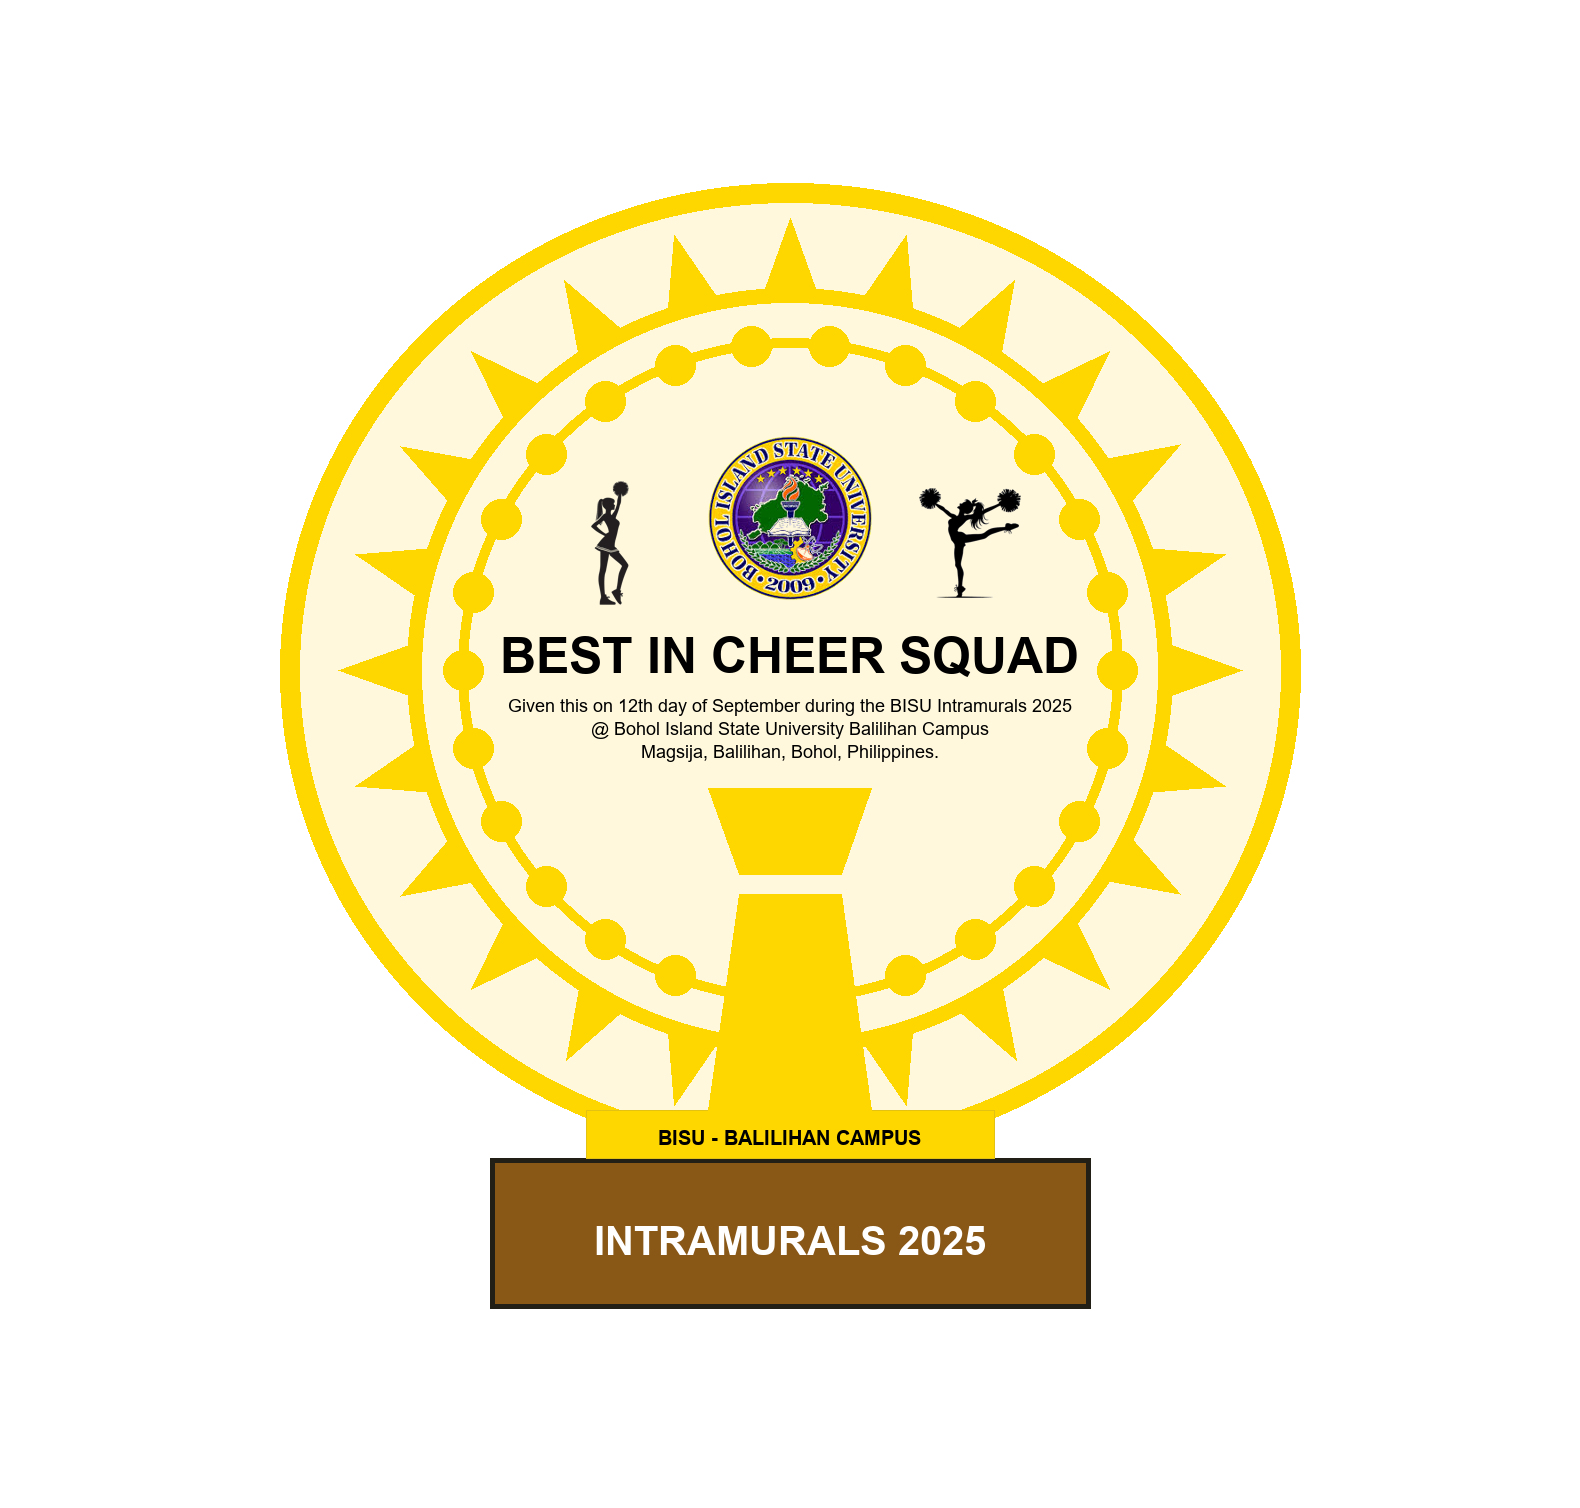
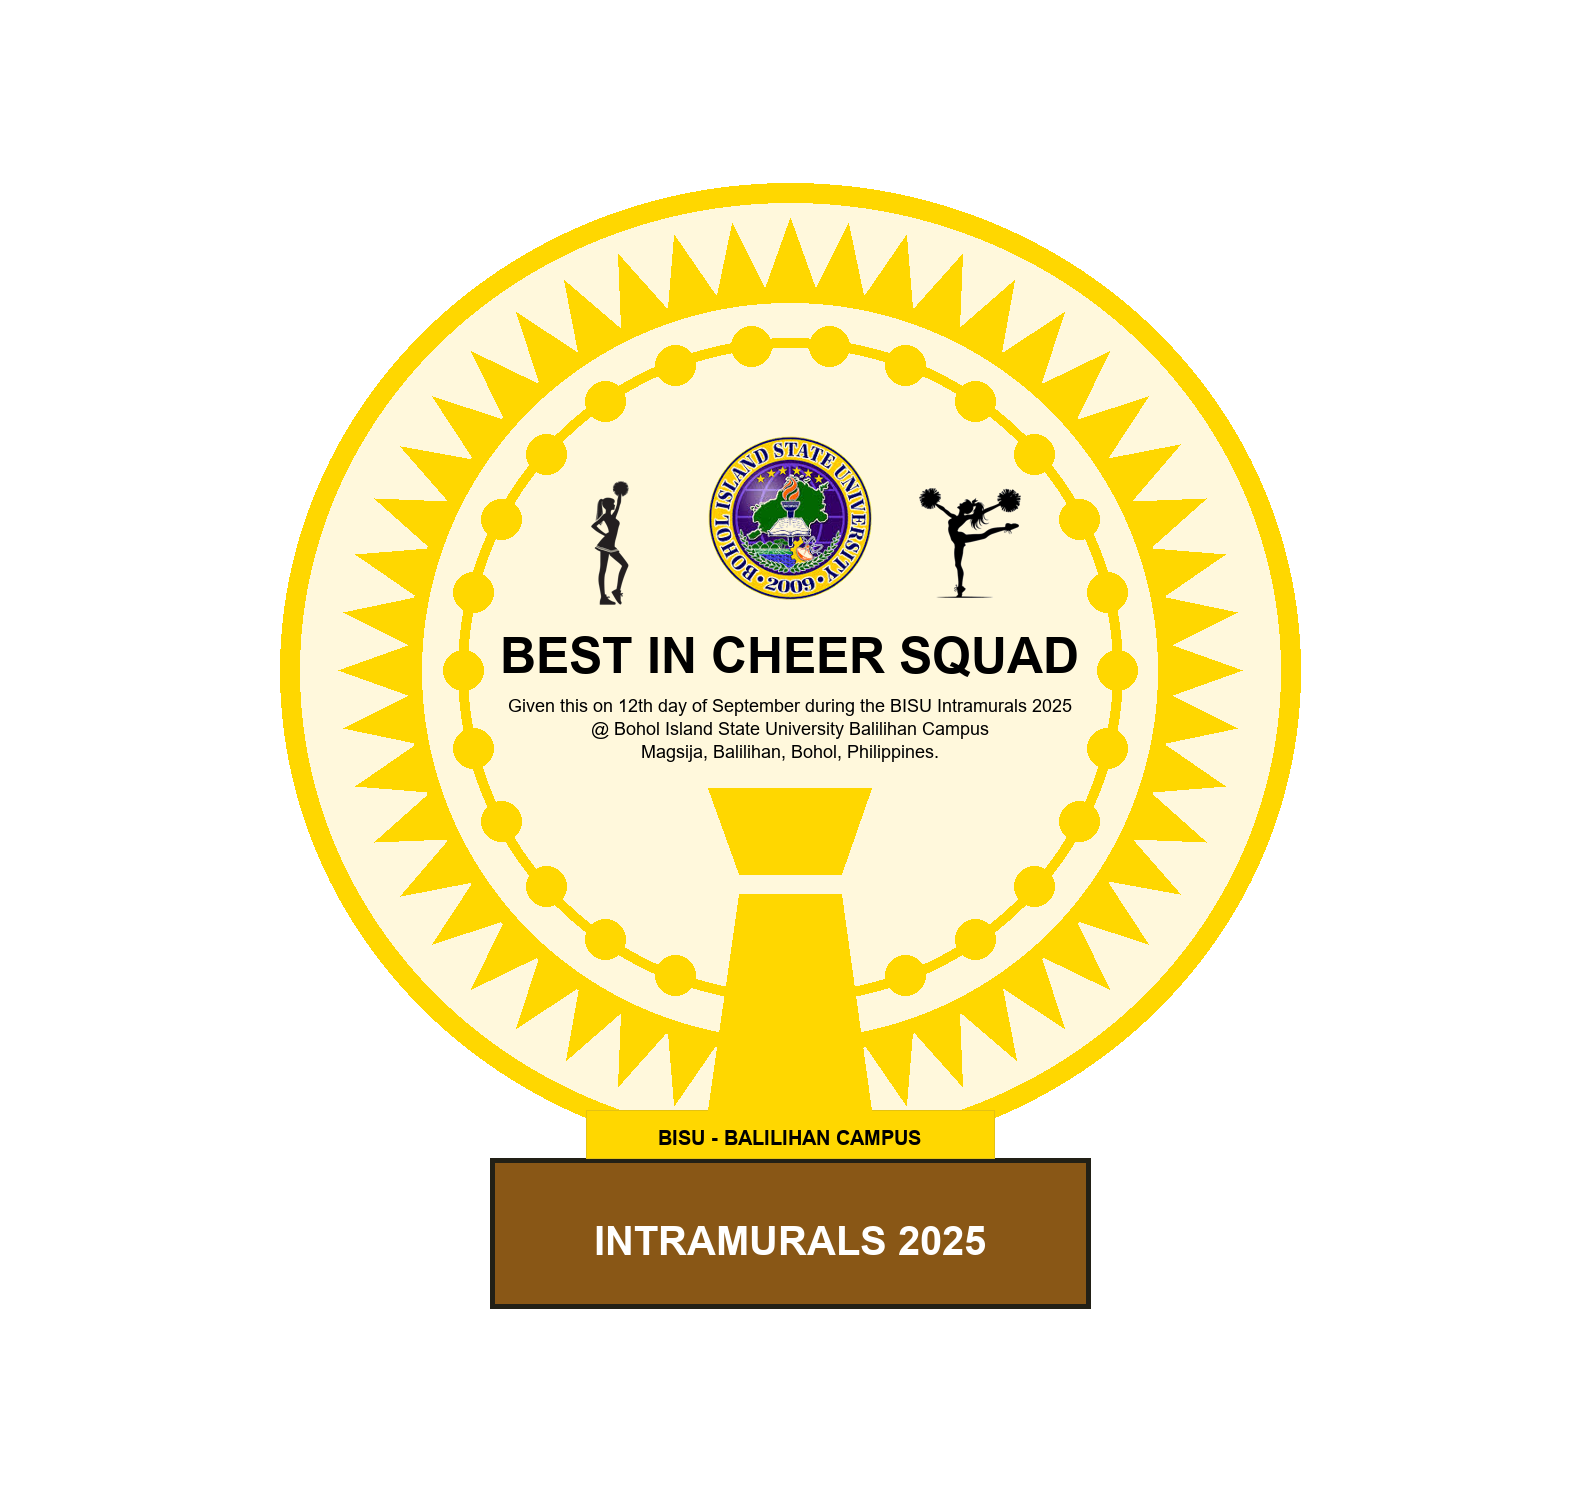
commit 9f8c3e2d5b6a7e8f9a0b1c2d3e4f5g6h7i8j9k0l Author: user <

diff --git a/TrophyDesignProject/trophyactivity.py b/TrophyDesignProject/trophyactivity.py
@@ -300,7 +300,7 @@ left_decoration_y = decoration_y
 img.paste(squad_decoration, (left_decoration_x, left_decoration_y), squad_decoration)
 
 #Add some lines for decoration
-num_leaves = 24
+num_leaves = 48
 leaf_length = 70
 leaf_width = 25
 
